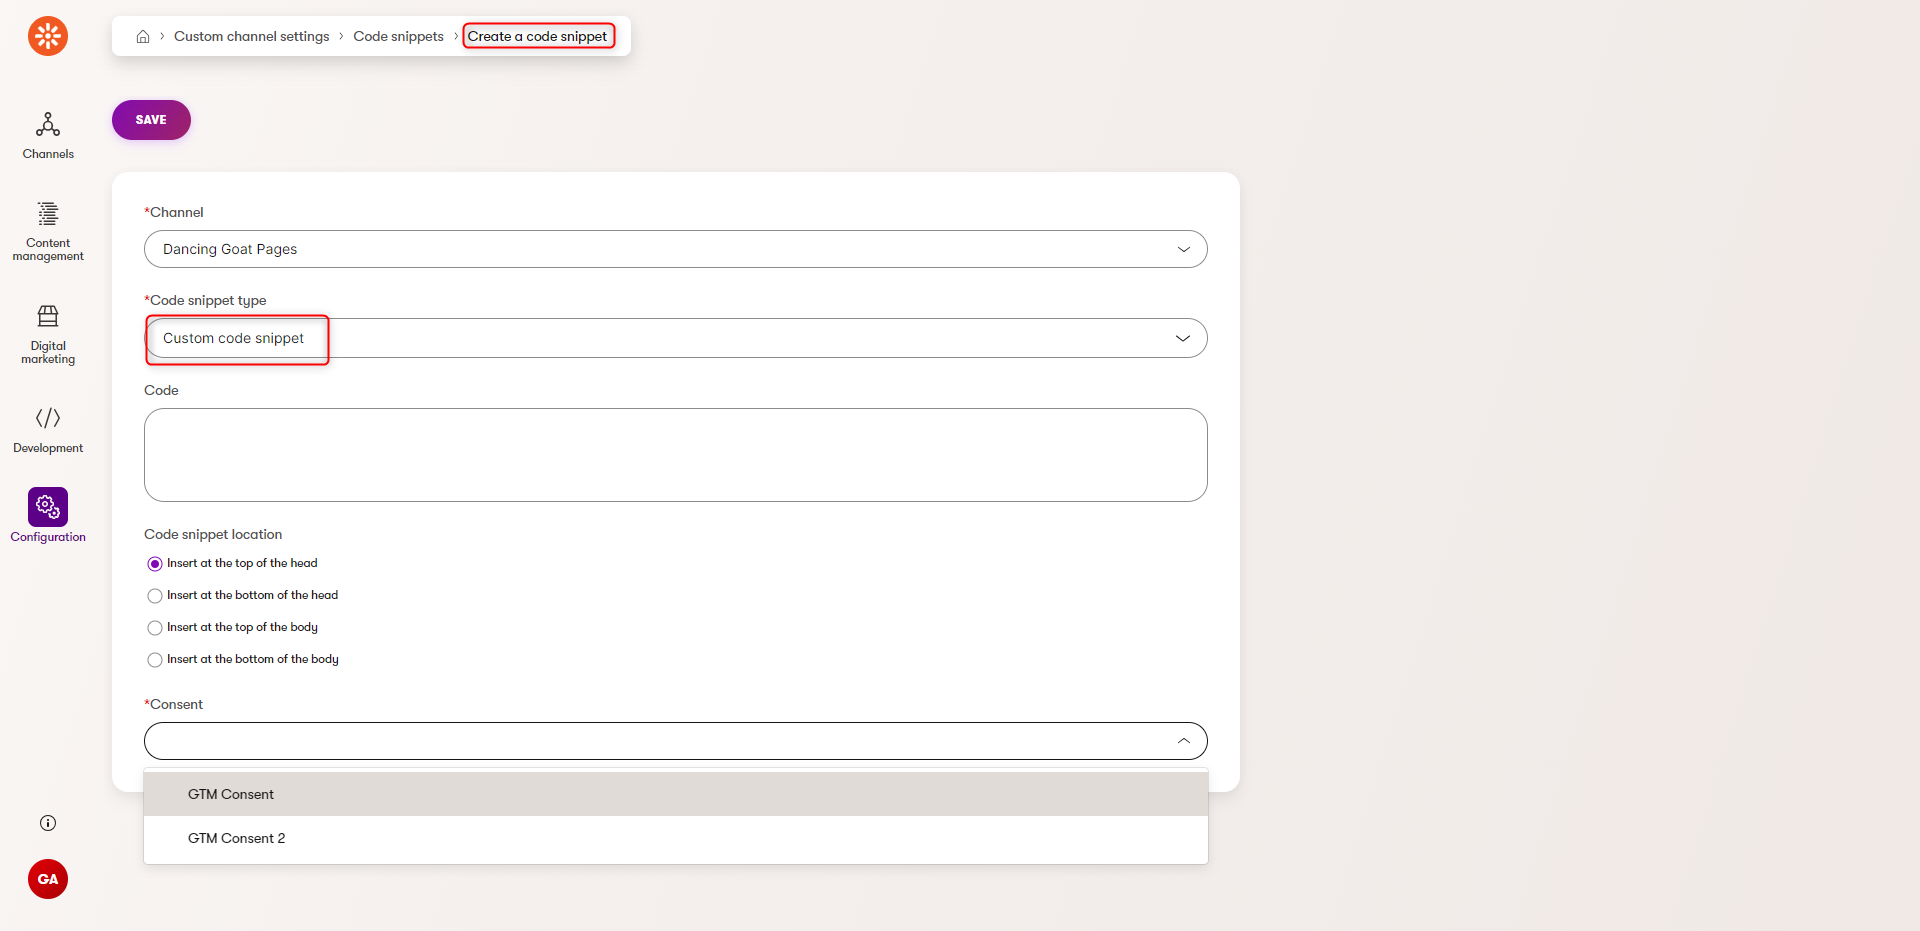
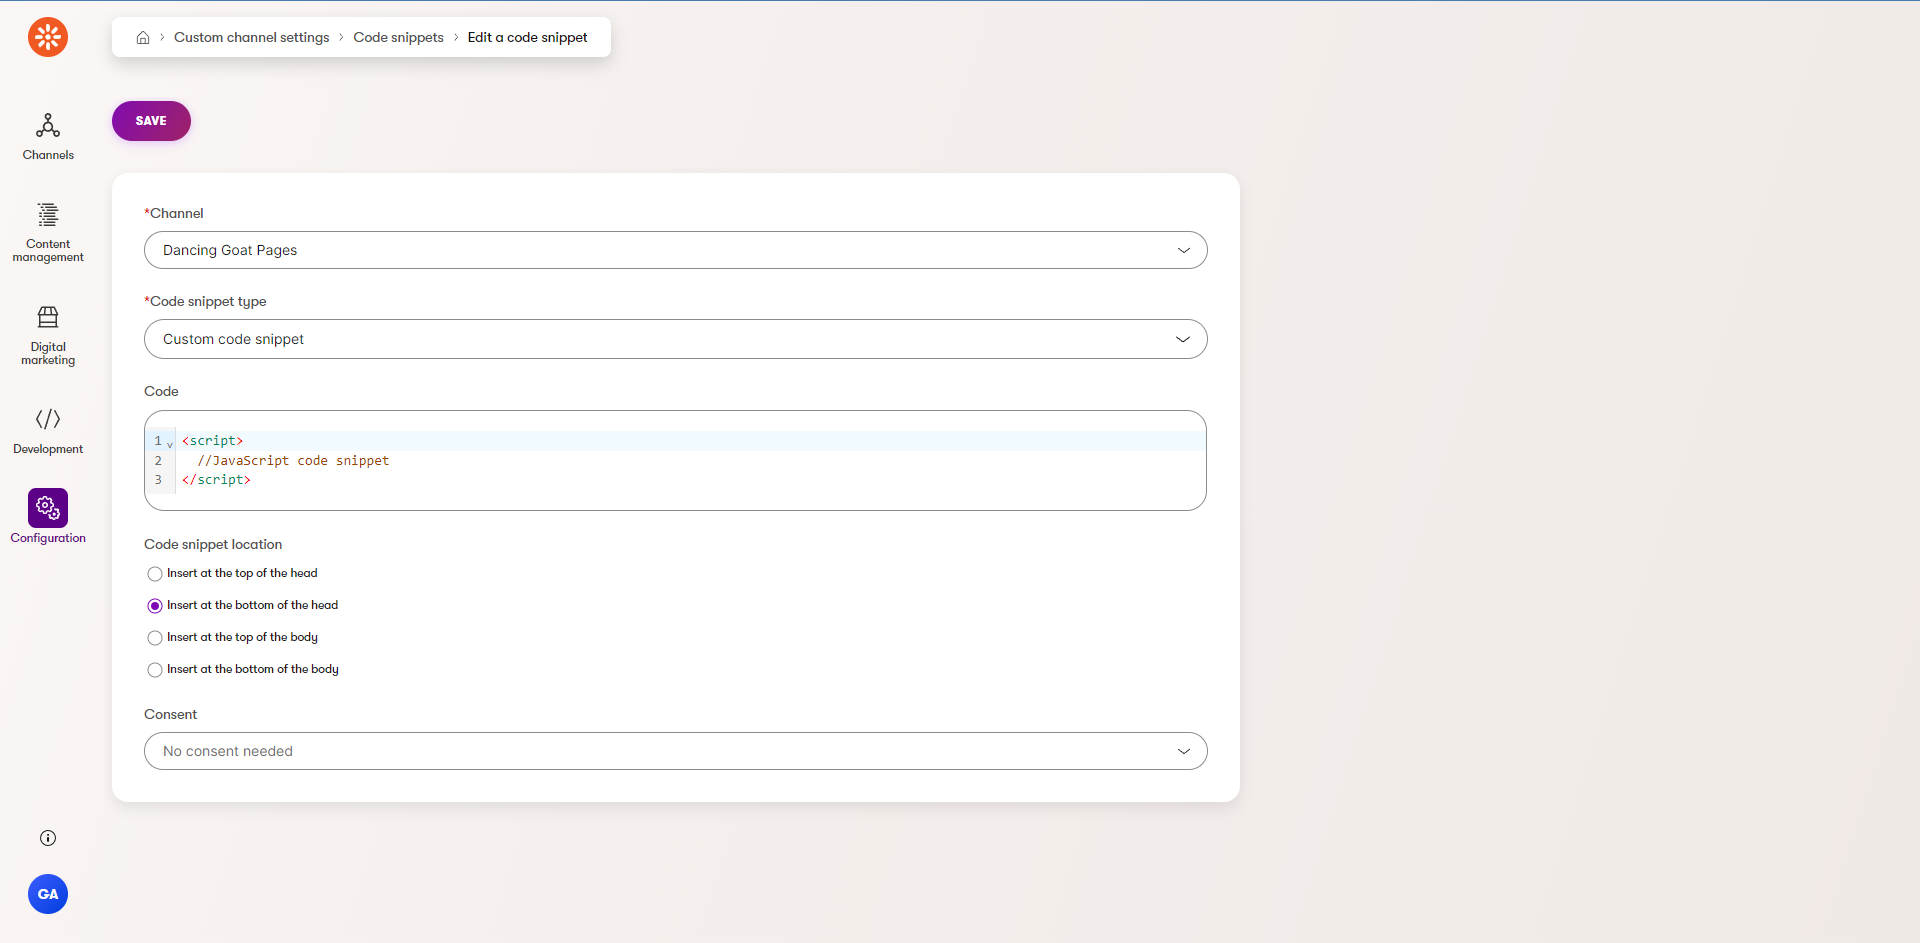
README

diff --git a/src/Kentico.Xperience.TagManager/Admin/UIPages/Models/CodeSnippetEditModel.cs b/src/Kentico.Xperience.TagManager/Admin/UIPages/Models/CodeSnippetEditModel.cs
@@ -14,7 +14,7 @@ internal class CodeSnippetEditModel
     [DropDownComponent(Label = "Code snippet type", Order = 2, DataProviderType = typeof(CodeSnippetTypesDropdownOptionsProvider))]
     public string? SnippetType { get; set; }
 
-    [TextAreaComponent(Label = "Code", Order = 3, MinRowsNumber = 3)]
+    [CodeEditorComponent(Label = "Code", Order = 3)]
     [VisibleIfEqualTo(nameof(SnippetType), nameof(CodeSnippetTypes.CustomCode))]
     public string? Code { get; set; }
 

diff --git a/README.md b/README.md
@@ -22,7 +22,7 @@ Tag Manager integration enabling marketers to author custom tags that can be emb
 
 ### Dependencies
 
-- [ASP.NET Core 8.0](https://dotnet.microsoft.com/en-us/download)
+- [ASP.NET Core 6.0](https://dotnet.microsoft.com/en-us/download)
 - [Xperience by Kentico](https://docs.xperience.io/xp/changelog)
 
 ## Package Installation
@@ -35,8 +35,8 @@ dotnet add package Kentico.Xperience.TagManager
 
 ## Quick Start
 1. Include `Kentico.Xperience.TagManager` project in the solution.
-1. Add to main project as project dependency.
-1. Add this library to the application services.
+1. Add to live site project as project dependency.
+1. Register required services into DI container.
 
    ```csharp
    // Program.cs
@@ -51,13 +51,7 @@ dotnet add package Kentico.Xperience.TagManager
 1. Create new record.
 1. Choose channel, snippet type, custom code snippet or GTM ID, and consent.
 1. During rendering the livesite page, the application automatically adds custom code snippets with accepted consents.
-1. To dynamically update the rendered code snippets, call javascript function `window.UpdateCodeSnippets()`.
-1. To assign permission to view and update code snippets of specific channel using 'Custom channel settings' UI application, go to RoleManagement -> choose a role -> Permissions -> Add to website channel UI application the permission `Channel settings`.  
-## Full Instructions
-
----Add the full instructions, guidance, and tips to the Usage-Guide.md file---
-
-View the [Usage Guide](./docs/Usage-Guide.md) for more detailed instructions.
+1. To dynamically update the rendered code snippets, call javascript function `window.updateCodeSnippets()`.
 
 ## Contributing
 
